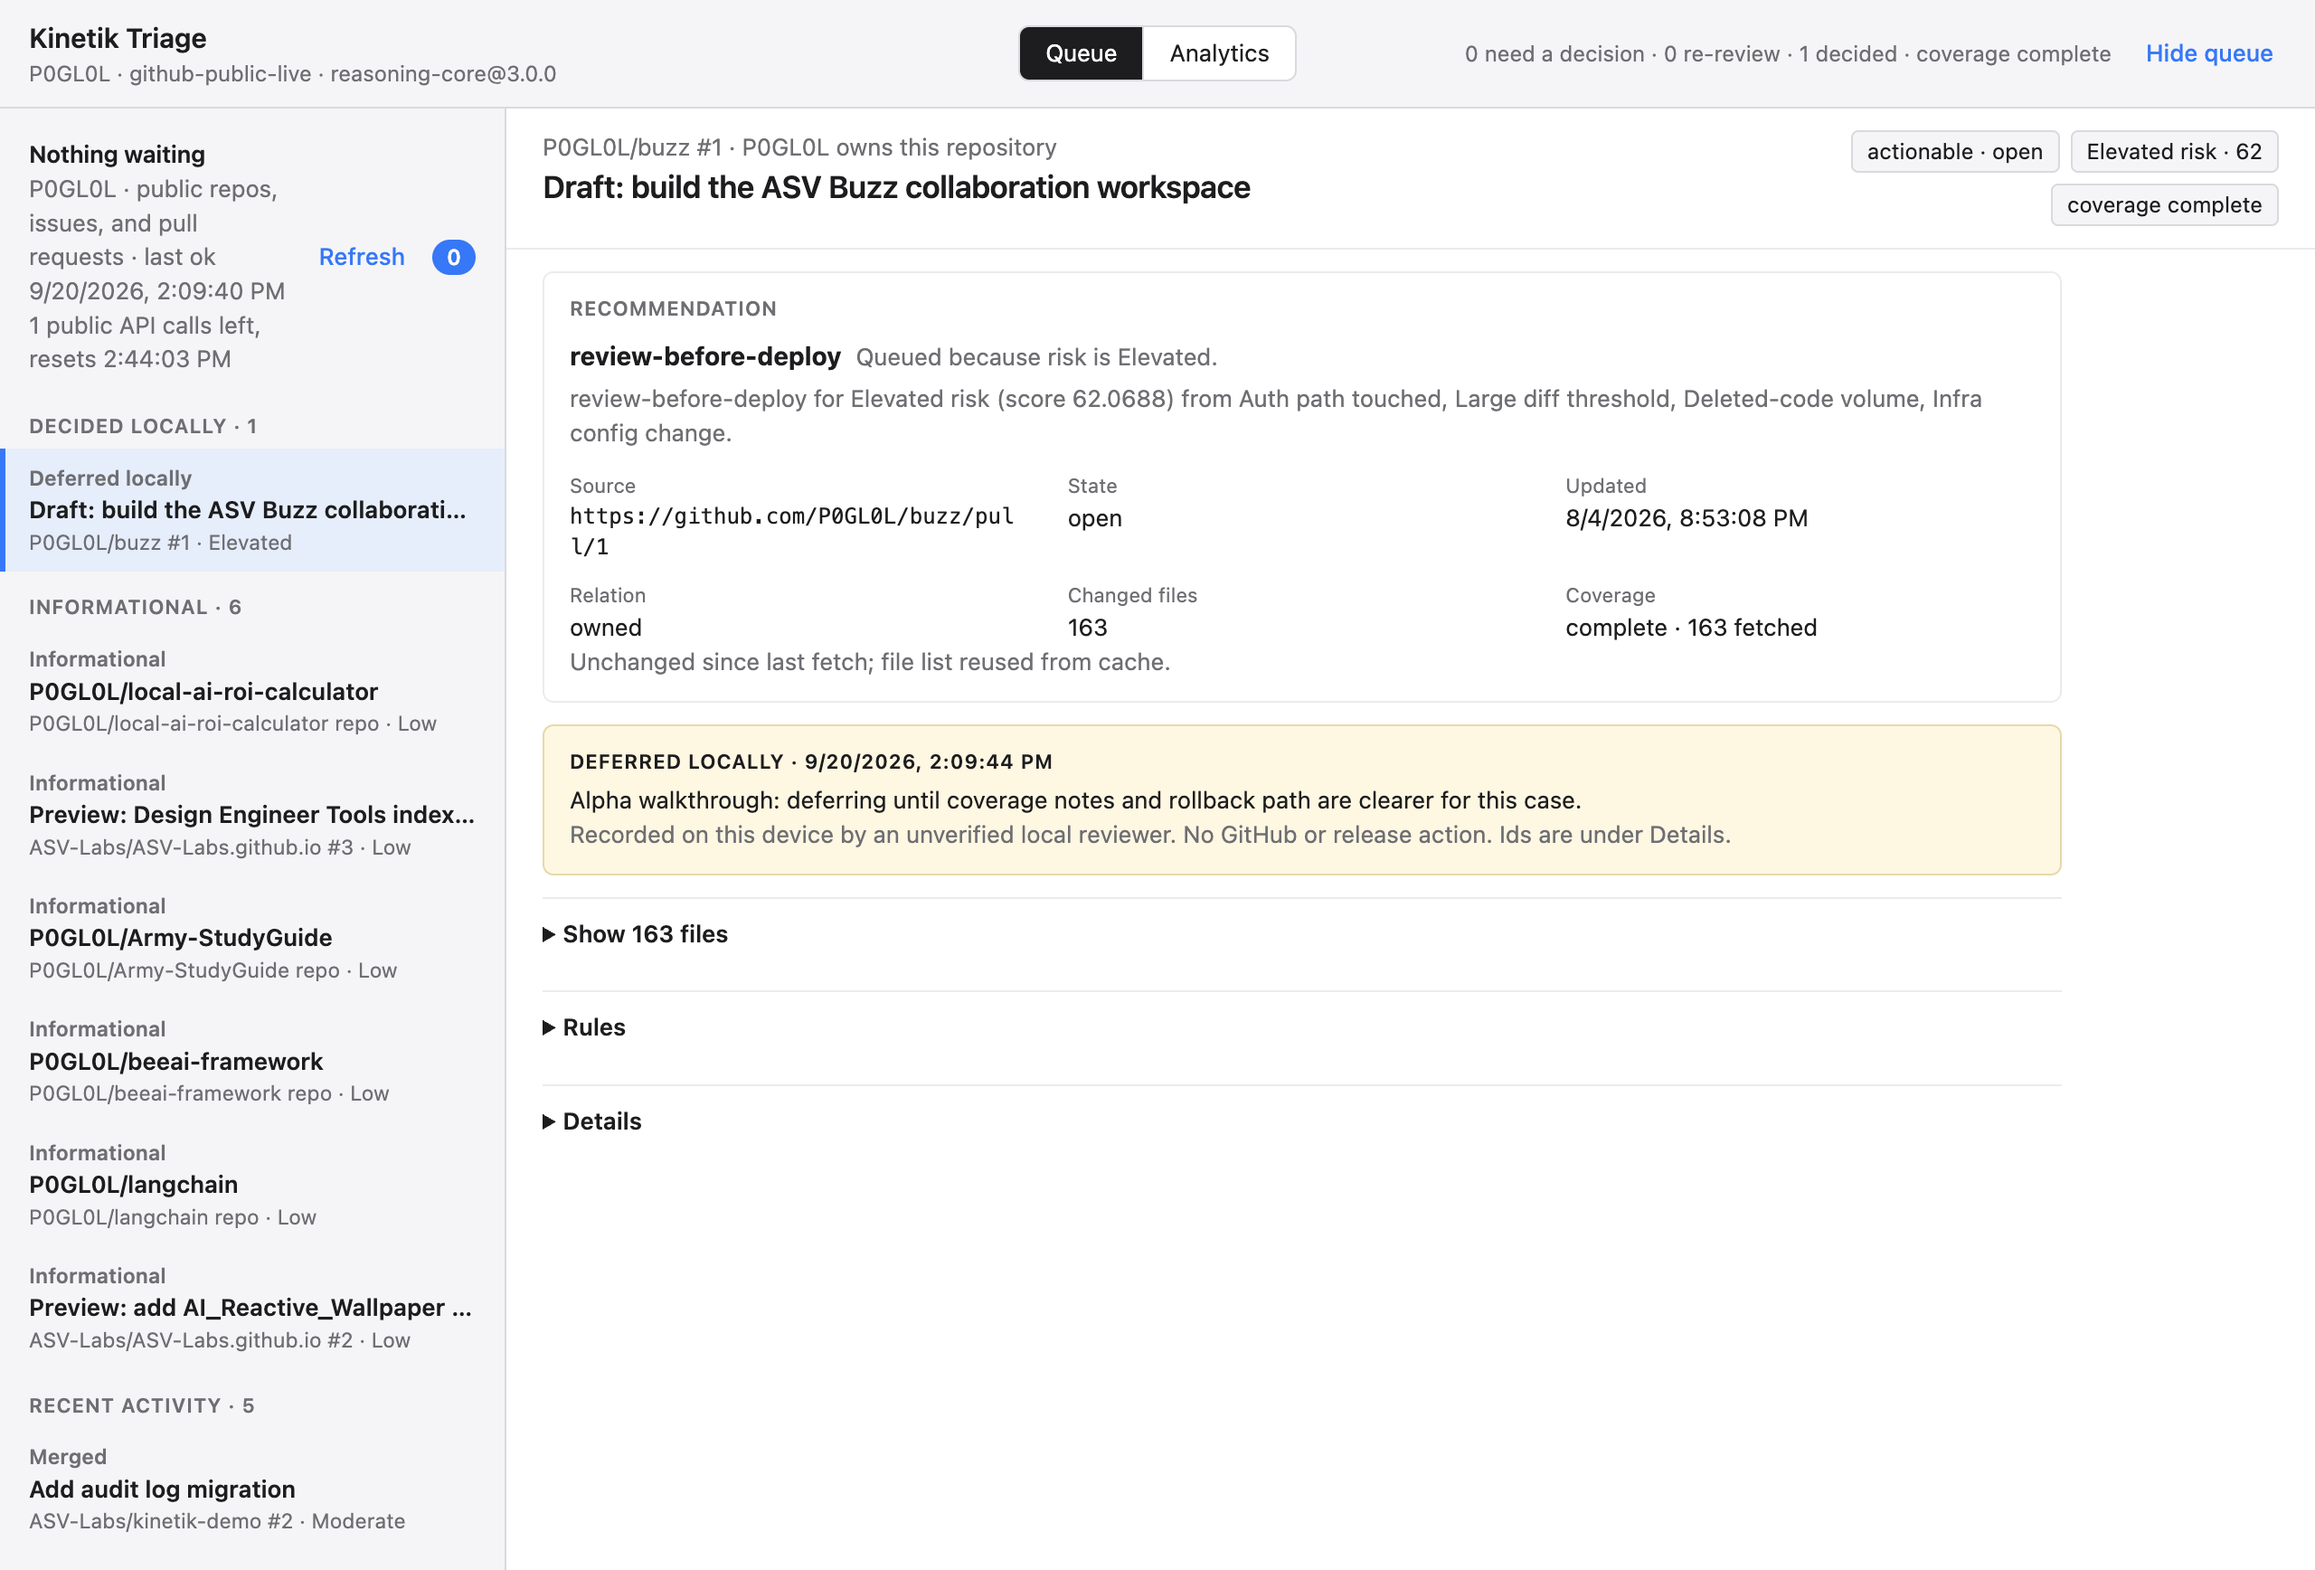
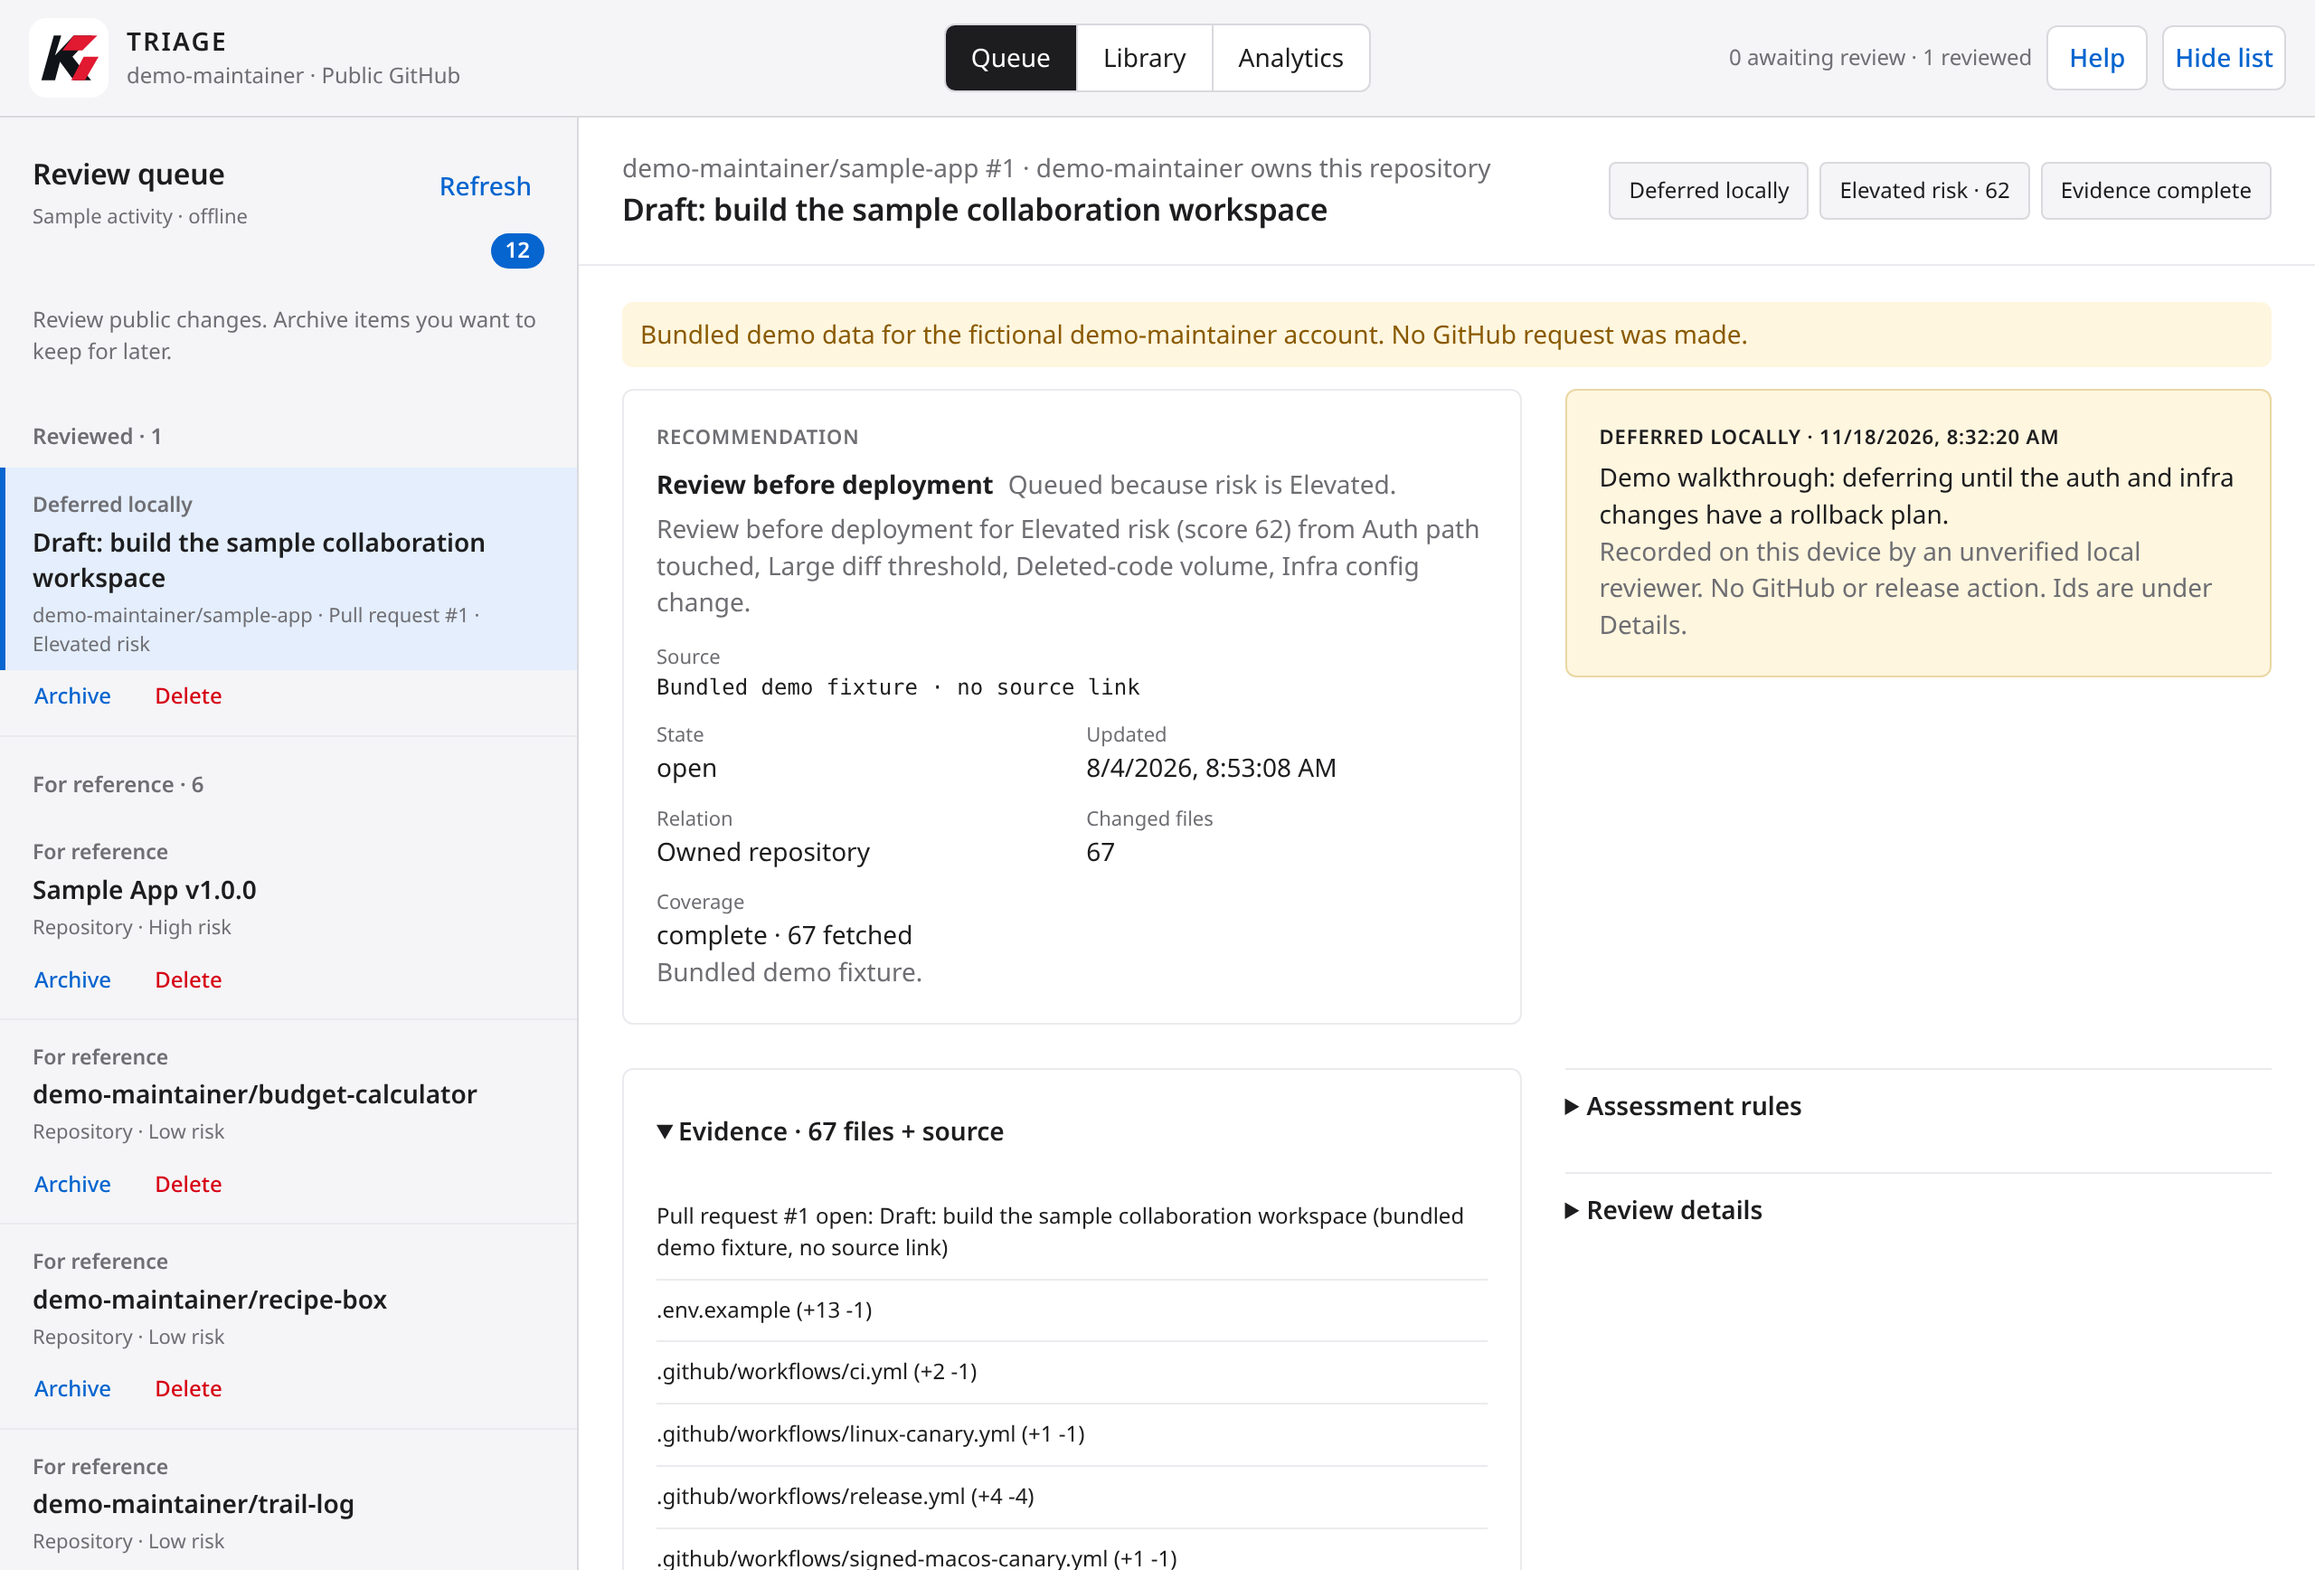
Update walkthrough images and scope demo-data wording to the next build [skip ci]
Replace the guide images and Open Graph card with captures from a
development copy of the demo-data build. Keep 0.9.6/build 5 described
as loading the demo account's public activity live by default, and
describe bundled-sample-data-by-default only as the demo-data build,
planned as the next build, with no version number.

diff --git a/USER_GUIDE.md b/USER_GUIDE.md
@@ -41,7 +41,7 @@ Wait for the public queue to load. Select an item under **Awaiting review**. If 
 
 ![Kinetik 0.9.6 reading workspace with evidence and rationale side by side](docs/images/07-reading-096.jpg)
 
-The reading-workspace image above and Library image below were captured from 0.9.6/build 5. The other walkthrough images show the preceding 0.9.4 workflow; they predate the new layout and Library. Use the current button names in these instructions.
+The walkthrough images were captured from a development copy of the demo-data build, planned as the next build, not from the 0.9.6/build 5 package. They show bundled sample data for a fictional demo account. In 0.9.6/build 5 the queue holds live public activity from the demo account and **Source** is a GitHub link, so the cases you see will differ. Use the current button names in these instructions.
 
 | Queue group | Meaning |
 | --- | --- |
@@ -55,7 +55,7 @@ The reading-workspace image above and Library image below were captured from 0.9
 
 Read the recommendation, risk band, coverage, and reason for the recommendation. **Risk is a rule-based review signal, not proof that a change is safe or unsafe.** Coverage says how much of the file list was available. Partial or unavailable coverage means information is missing.
 
-Select the **Source** link to inspect the public item on GitHub in your browser. Open **Evidence**, **Assessment rules**, and **Review details** for supporting context. Repository rows provide background; they do not offer a decision form.
+Select the **Source** link to inspect the public item on GitHub in your browser. (In the demo-data build shown in the images, Source is plain text and is not a link.) Open **Evidence**, **Assessment rules**, and **Review details** for supporting context. Repository rows provide background; they do not offer a decision form.
 
 ![Recommendation, coverage, and decision controls](docs/images/02-case-summary-and-actions.png)
 
@@ -96,6 +96,8 @@ Review the contents before sharing. A report may reveal your local review activi
 **Refresh** (⌘R) checks GitHub again. **Retry** appears with an explanation when a load fails. The app may show the last saved queue, clearly labeled, or an empty queue when no saved data exists. Cached data can be out of date.
 
 ![A failed load notice with Retry](docs/images/06-retry-or-refresh-if-easy.png)
+
+This image comes from the demo-data build with live mode turned on and no network, so its notice names a different public account than 0.9.6/build 5 would.
 
 GitHub limits unauthenticated API requests by public IP address. The app shows the remaining allowance and reset time when available. Other software on your network can share the allowance. Wait until reset rather than repeatedly retrying a rate-limit failure. The app caches responses to reduce requests.
 

diff --git a/PRIVACY.md b/PRIVACY.md
@@ -1,12 +1,16 @@
 # Privacy notice
 
-Last updated: 22 September 2026. Applies to Kinetik Triage 0.9.6/build 5 and this alpha website.
+Last updated: 18 November 2026. Applies to Kinetik Triage 0.9.6/build 5 and this alpha website.
 
 ## Desktop app
 
 Kinetik requests public GitHub activity for a demo account directly from GitHub's API. Requests include ordinary HTTP headers and identify the requested public endpoint. GitHub receives network information such as your public IP address. GitHub's own privacy practices apply to its service.
 
 Kinetik stores your decisions, rationale, selected case, cached public data, and exports in `~/Library/Application Support/Kinetik Triage/`. The app does not upload your local rationale or decisions, request a GitHub access token, or include a Kinetik analytics/crash reporting service in this alpha. Following a source or help link opens your browser and visits that destination.
+
+### The demo-data build (next build, not yet released)
+
+The section above describes 0.9.6/build 5, which loads public activity for a demo account live from GitHub by default. A demo-data build is in development and has not been built, notarized, or distributed. In that build, Kinetik loads bundled sample data for a fictional demo account by default and makes no GitHub request; Source is shown as plain text, not a link. Live mode starts only when the app is launched with `KINETIK_CORPUS_MODE=live` and `KINETIK_LIVE_PROFILE` set to a public GitHub account (the fictional demo account is refused). In live mode it requests that account's public activity from GitHub's API as described above. It is not offered to testers yet.
 
 These are ordinary local files, not an encrypted vault. Other users/processes with access to your macOS account, your backup system, or synchronization tools may access or copy them. Protect the account and review your backup settings. Quit the app before backing up or removing the folder; removing it clears local review state and cached data.
 

diff --git a/RELEASE_STATUS.md b/RELEASE_STATUS.md
@@ -62,4 +62,4 @@ The public-repository release drafts from 21 September identify older candidates
 
 ## Alpha limitations
 
-The pilot profile is fixed to public activity from a demo account. There is no private-repository connection, team sync, general decision edit/undo, or deployment/publishing action. The guide includes current 0.9.6 reading-workspace and Library screenshots; remaining walkthrough images are explicitly identified as the preceding 0.9.4 workflow. Full VoiceOver qualification and external first-time-user testing remain follow-up work. App Store distribution is a separate release path.
+The pilot profile in 0.9.6/build 5 is fixed to public activity from a demo account, loaded live from GitHub by default. A demo-data build, planned as the next build, loads bundled sample data for a fictional demo account by default and makes no GitHub request; it has not been built or notarized and is not a candidate. There is no private-repository connection, team sync, general decision edit/undo, or deployment/publishing action. The guide walkthrough images were captured from a development copy of the demo-data build, not from the 0.9.6/build 5 package, so they show bundled sample data rather than the live queue. Full VoiceOver qualification and external first-time-user testing remain follow-up work. App Store distribution is a separate release path.

diff --git a/README.md b/README.md
@@ -6,6 +6,8 @@ Kinetik is a Mac app that helps you understand software changes before they affe
 
 **This alpha is a guided pilot using public activity from a demo account. It does not connect to your own account yet.**
 
+In 0.9.6/build 5, the staged candidate, the app loads that public activity live from GitHub by default. A separate demo-data build, planned as the next build, shows bundled sample data for a fictional demo account by default and makes no GitHub request. It has not been built or notarized yet. The guide images were captured from a development copy of the demo-data build.
+
 [Explore Kinetik](https://asv-labs.github.io/kinetik-triage/) · [Read the illustrated guide](USER_GUIDE.md) · [Release status](RELEASE_STATUS.md) · [Report a problem](https://github.com/ASV-Labs/kinetik-triage/issues)
 
 ## What you can do
